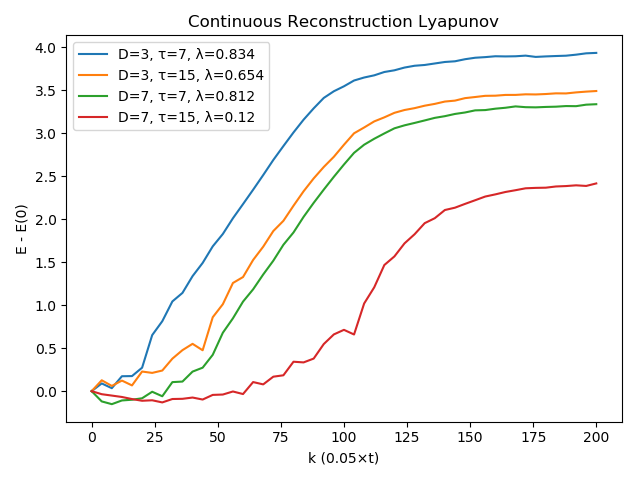
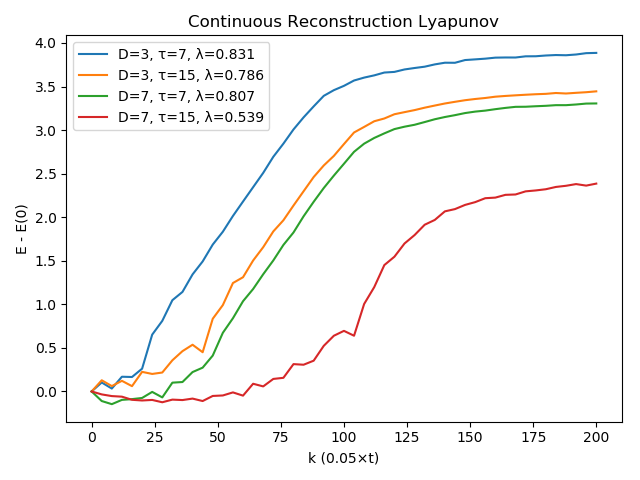
build based on 648447f

diff --git a/dev/embedding/reconstruction/index.html b/dev/embedding/reconstruction/index.html
@@ -540,36 +540,37 @@
                   <h1>Delay Coordinates</h1>
                 
                 <p>A timeseries recorded in some manner from a dynamical system can be used to gain information about the dynamics of the entire phase-space of the system. This can be done by reconstructing a new phase-space from the timeseries. One method that can do this is what is known as <a href="https://en.wikipedia.org/wiki/Takens%27_theorem">delay coordinates embedding</a> or delay coordinates <em>reconstruction</em>.</p>
-<p>This is done through the <code>reconstruct</code> interface:</p>
+<p>This is done through <code>reconstruct</code> or <code>embed</code>:</p>
 <p><a id='DelayEmbeddings.reconstruct' href='#DelayEmbeddings.reconstruct'>#</a>
 <strong><code>DelayEmbeddings.reconstruct</code></strong> &mdash; <em>Function</em>.</p>
-<div class="codehilite"><pre><span></span>reconstruct(s, D, τ)
+<div class="codehilite"><pre><span></span>reconstruct(s, γ, τ)
 </pre></div>
 
 
-<p>Reconstruct <code>s</code> using the delay coordinates embedding with <code>D</code> temporal neighbors and delay <code>τ</code> and return the result as a <a href="../dataset/#DelayEmbeddings.Dataset"><code>Dataset</code></a>.</p>
+<p>Reconstruct <code>s</code> using the delay coordinates embedding with <code>γ</code> temporal neighbors and delay <code>τ</code> and return the result as a <a href="../dataset/#DelayEmbeddings.Dataset"><code>Dataset</code></a>.</p>
+<p>See <a href="./#DelayEmbeddings.embed"><code>embed</code></a> for the version that accepts the embedding dimension <code>D = γ+1</code> directly.</p>
 <p><strong>Description</strong></p>
 <p><strong>Single Timeseries</strong></p>
 <p>If <code>τ</code> is an integer, then the <span><span class="MathJax_Preview">n</span><script type="math/tex">n</script></span>-th entry of the embedded space is</p>
 <div>
 <div class="MathJax_Preview">
-(s(n), s(n+\tau), s(n+2\tau), \dots, s(n+D\tau))
+(s(n), s(n+\tau), s(n+2\tau), \dots, s(n+γ\tau))
 </div>
 <script type="math/tex; mode=display">
-(s(n), s(n+\tau), s(n+2\tau), \dots, s(n+D\tau))
+(s(n), s(n+\tau), s(n+2\tau), \dots, s(n+γ\tau))
 </script>
 </div>
-<p>If instead <code>τ</code> is a vector of integers, so that <code>length(τ) == D</code>, then the <span><span class="MathJax_Preview">n</span><script type="math/tex">n</script></span>-th entry is</p>
+<p>If instead <code>τ</code> is a vector of integers, so that <code>length(τ) == γ</code>, then the <span><span class="MathJax_Preview">n</span><script type="math/tex">n</script></span>-th entry is</p>
 <div>
 <div class="MathJax_Preview">
-(s(n), s(n+\tau[1]), s(n+\tau[2]), \dots, s(n+\tau[D]))
+(s(n), s(n+\tau[1]), s(n+\tau[2]), \dots, s(n+\tau[γ]))
 </div>
 <script type="math/tex; mode=display">
-(s(n), s(n+\tau[1]), s(n+\tau[2]), \dots, s(n+\tau[D]))
+(s(n), s(n+\tau[1]), s(n+\tau[2]), \dots, s(n+\tau[γ]))
 </script>
 </div>
-<p>The reconstructed dataset can have same invariant quantities (like e.g. lyapunov exponents) with the original system that the timeseries were recorded from, for proper <code>D</code> and <code>τ</code> [1, 2]. The case of different delay times allows reconstructing systems with many time scales, see [3].</p>
-<p><em>Notice</em> - The dimension of the returned dataset is <code>D+1</code>!</p>
+<p>The reconstructed dataset can have same invariant quantities (like e.g. lyapunov exponents) with the original system that the timeseries were recorded from, for proper <code>γ</code> and <code>τ</code>. This is known as the Takens embedding theorem [1, 2]. The case of different delay times allows reconstructing systems with many time scales, see [3].</p>
+<p><em>Notice</em> - The dimension of the returned dataset (i.e. embedding dimension) is <code>γ+1</code>!</p>
 <p><strong>Multiple Timeseries</strong></p>
 <p>To make a reconstruction out of a multiple timeseries (i.e. trajectory) the number of timeseries must be known by type, so <code>s</code> can be either:</p>
 <ul>
@@ -579,26 +580,34 @@
 <p>If the trajectory is for example <span><span class="MathJax_Preview">(x, y)</span><script type="math/tex">(x, y)</script></span> and <code>τ</code> is integer, then the <span><span class="MathJax_Preview">n</span><script type="math/tex">n</script></span>-th entry of the embedded space is</p>
 <div>
 <div class="MathJax_Preview">
-(x(n), y(n), x(n+\tau), y(n+\tau), \dots, x(n+D\tau), y(n+D\tau))
+(x(n), y(n), x(n+\tau), y(n+\tau), \dots, x(n+γ\tau), y(n+γ\tau))
 </div>
 <script type="math/tex; mode=display">
-(x(n), y(n), x(n+\tau), y(n+\tau), \dots, x(n+D\tau), y(n+D\tau))
+(x(n), y(n), x(n+\tau), y(n+\tau), \dots, x(n+γ\tau), y(n+γ\tau))
 </script>
 </div>
-<p>If <code>τ</code> is an <code>AbstractMatrix{Int}</code>, so that <code>size(τ) == (D, B)</code>, then we have</p>
+<p>If <code>τ</code> is an <code>AbstractMatrix{Int}</code>, so that <code>size(τ) == (γ, B)</code>, then we have</p>
 <div>
 <div class="MathJax_Preview">
-(x(n), y(n), x(n+\tau[1, 1]), y(n+\tau[1, 2]), \dots, x(n+\tau[D, 1]), y(n+\tau[D, 2]))
+(x(n), y(n), x(n+\tau[1, 1]), y(n+\tau[1, 2]), \dots, x(n+\tau[γ, 1]), y(n+\tau[γ, 2]))
 </div>
 <script type="math/tex; mode=display">
-(x(n), y(n), x(n+\tau[1, 1]), y(n+\tau[1, 2]), \dots, x(n+\tau[D, 1]), y(n+\tau[D, 2]))
+(x(n), y(n), x(n+\tau[1, 1]), y(n+\tau[1, 2]), \dots, x(n+\tau[γ, 1]), y(n+\tau[γ, 2]))
 </script>
 </div>
-<p><em>Notice</em> - The dimension of the returned dataset is <code>(D+1)*B</code>!</p>
+<p><em>Notice</em> - The dimension of the returned dataset is <code>(γ+1)*B</code>!</p>
 <p><strong>References</strong></p>
 <p>[1] : F. Takens, <em>Detecting Strange Attractors in Turbulence — Dynamical Systems and Turbulence</em>, Lecture Notes in Mathematics <strong>366</strong>, Springer (1981)</p>
 <p>[2] : T. Sauer <em>et al.</em>, J. Stat. Phys. <strong>65</strong>, pp 579 (1991)</p>
 <p>[3] : K. Judd &amp; A. Mees, <a href="https://www.sciencedirect.com/science/article/pii/S0167278997001188">Physica D <strong>120</strong>, pp 273 (1998)</a></p>
+<p><a id='DelayEmbeddings.embed' href='#DelayEmbeddings.embed'>#</a>
+<strong><code>DelayEmbeddings.embed</code></strong> &mdash; <em>Function</em>.</p>
+<div class="codehilite"><pre><span></span>embed(s, D, τ)
+</pre></div>
+
+
+<p>Perform a delay coordinates embedding on signal <code>s</code> with embedding dimension <code>D</code> and delay time <code>τ</code>. The result is returned as a <a href="../dataset/#DelayEmbeddings.Dataset"><code>Dataset</code></a>, which is a vector of static vectors.</p>
+<p>See <a href="./#DelayEmbeddings.reconstruct"><code>reconstruct</code></a> for an advanced version that supports multiple delay times and can reconstruct multiple timeseries efficiently.</p>
 <hr />
 <p>Here are some examples of <code>reconstruct</code>ing a 3D continuous chaotic system:</p>
 <div class="codehilite"><pre><span></span><span class="k">using</span> <span class="n">DynamicalSystems</span><span class="p">,</span> <span class="n">PyPlot</span>
@@ -641,26 +650,26 @@
 
 
 <div class="codehilite"><pre><span></span>9-dimensional Dataset{Float64} with 996 points
- 0.745667  0.0435719  0.890338    0.157497  …  0.711019  0.214052   0.314479
- 0.594759  0.945384   0.866707    0.511541     0.83282   0.380153   0.754458
- 0.157497  0.0189407  0.793988    0.711019     0.972236  0.22743    0.163211
- 0.511541  0.940033   0.00872263  0.83282      0.786371  0.32852    0.058607
- 0.711019  0.214052   0.314479    0.972236     0.767224  0.722706   0.149247
- 0.83282   0.380153   0.754458    0.786371  …  0.739681  0.0685687  0.502927
- 0.972236  0.22743    0.163211    0.767224     0.876281  0.079287   0.735791
- 0.786371  0.32852    0.058607    0.739681     0.606395  0.717941   0.690385
- 0.767224  0.722706   0.149247    0.876281     0.607293  0.854671   0.298421
- 0.739681  0.0685687  0.502927    0.606395     0.895487  0.0281828  0.687055
- ⋮                                          ⋱
- 0.218698  0.987811   0.42298     0.660524     0.632614  0.230983   0.651362
- 0.930821  0.756176   0.0639801   0.844555     0.574546  0.10618    0.878057
- 0.660524  0.490072   0.523987    0.632614     0.824329  0.992665   0.814298
- 0.844555  0.423646   0.34591     0.574546     0.244064  0.232577   0.745421
- 0.632614  0.230983   0.651362    0.824329  …  0.836616  0.716936   0.0923172
- 0.574546  0.10618    0.878057    0.244064     0.254464  0.174518   0.358852
- 0.824329  0.992665   0.814298    0.836616     0.485585  0.45082    0.61328
- 0.244064  0.232577   0.745421    0.254464     0.368824  0.994254   0.234301
- 0.836616  0.716936   0.0923172   0.485585     0.779545  0.876001   0.420806
+ 0.453591    0.269982  0.671819  …  0.96895     0.303171  0.897061
+ 0.687247    0.386008  0.24742      0.330257    0.487621  0.643531
+ 0.804218    0.143555  0.24769      0.00690501  0.19615   0.58454
+ 0.0824645   0.587728  0.482743     0.878142    0.958098  0.737605
+ 0.96895     0.303171  0.897061     0.832304    0.493443  0.723887
+ 0.330257    0.487621  0.643531  …  0.861223    0.686945  0.982702
+ 0.00690501  0.19615   0.58454      0.847       0.834403  0.457541
+ 0.878142    0.958098  0.737605     0.71074     0.271625  0.457599
+ 0.832304    0.493443  0.723887     0.939664    0.421249  0.227843
+ 0.861223    0.686945  0.982702     0.0592723   0.567878  0.823369
+ ⋮                               ⋱
+ 0.0581625   0.918     0.980216     0.420095    0.70439   0.278469
+ 0.123925    0.602361  0.278765     0.212964    0.303533  0.836159
+ 0.165968    0.853705  0.379734     0.014124    0.575129  0.808987
+ 0.0968769   0.229955  0.681255     0.409945    0.250198  0.912694
+ 0.420095    0.70439   0.278469  …  0.815924    0.27896   0.284367
+ 0.212964    0.303533  0.836159     0.998323    0.398785  0.835313
+ 0.014124    0.575129  0.808987     0.307187    0.280697  0.196756
+ 0.409945    0.250198  0.912694     0.899011    0.609194  0.638631
+ 0.815924    0.27896   0.284367     0.218048    0.909731  0.746986
 </pre></div>
 
 

diff --git a/dev/embedding/estimate/index.html b/dev/embedding/estimate/index.html
@@ -398,8 +398,8 @@
 </li>
       
         <li class="md-nav__item">
-  <a href="#number-of-temporal-neighbors" title="Number of Temporal neighbors" class="md-nav__link">
-    Number of Temporal neighbors
+  <a href="#embedding-dimension" title="Embedding Dimension" class="md-nav__link">
+    Embedding Dimension
   </a>
   
 </li>
@@ -599,8 +599,8 @@
 </li>
       
         <li class="md-nav__item">
-  <a href="#number-of-temporal-neighbors" title="Number of Temporal neighbors" class="md-nav__link">
-    Number of Temporal neighbors
+  <a href="#embedding-dimension" title="Embedding Dimension" class="md-nav__link">
+    Embedding Dimension
   </a>
   
 </li>
@@ -642,38 +642,37 @@
 </pre></div>
 
 
-<p>Estimate an optimal delay to be used in <a href="../reconstruction/#DelayEmbeddings.reconstruct"><code>reconstruct</code></a>. Return the exponential decay time <code>τ</code> rounded to an integer.</p>
+<p>Estimate an optimal delay to be used in <a href="../reconstruction/#DelayEmbeddings.reconstruct"><code>reconstruct</code></a> or <a href="../reconstruction/#DelayEmbeddings.embed"><code>embed</code></a>. Return the exponential decay time <code>τ</code> rounded to an integer.</p>
 <p>The <code>method</code> can be one of the following:</p>
 <ul>
 <li><code>"first_zero"</code> : find first delay at which the auto-correlation function becomes 0.</li>
 <li><code>"first_min"</code> : return delay of first minimum of the auto-correlation function.</li>
 </ul>
-<p><a id='Number-of-Temporal-neighbors-1'></a></p>
-<h2 id="number-of-temporal-neighbors">Number of Temporal neighbors</h2>
-<p>This also corresponds to the "embedding dimension" but only for univariate timeseries.</p>
+<p><a id='Embedding-Dimension-1'></a></p>
+<h2 id="embedding-dimension">Embedding Dimension</h2>
 <p><a id='DelayEmbeddings.estimate_dimension' href='#DelayEmbeddings.estimate_dimension'>#</a>
 <strong><code>DelayEmbeddings.estimate_dimension</code></strong> &mdash; <em>Function</em>.</p>
-<div class="codehilite"><pre><span></span>estimate_dimension(s::AbstractVector, τ:Int, Ds = 1:5) -&gt; E₁s
+<div class="codehilite"><pre><span></span>estimate_dimension(s::AbstractVector, τ:Int, γs = 1:5) -&gt; E₁s
 </pre></div>
 
 
-<p>Compute a quantity that can estimate an optimal amount of temporal neighbors <code>D</code> to be used in <a href="../reconstruction/#DelayEmbeddings.reconstruct"><code>reconstruct</code></a>.</p>
+<p>Compute a quantity that can estimate an optimal amount of temporal neighbors <code>γ</code> to be used in <a href="../reconstruction/#DelayEmbeddings.reconstruct"><code>reconstruct</code></a> or <a href="../reconstruction/#DelayEmbeddings.embed"><code>embed</code></a>.</p>
 <p><strong>Description</strong></p>
-<p>Given the scalar timeseries <code>s</code> and the embedding delay <code>τ</code> compute the values of <code>E₁</code> for each <code>D ∈ Ds</code>, according to Cao's Method (eq. 3 of [1]). Please be aware that in <strong>DynamicalSystems.jl</strong> <code>D</code> stands for the amount of temporal neighbors, <em>not</em> the dimension as in [1]. The dimension is <code>D+1</code>.</p>
-<p>Return the vector of all computed <code>E₁</code>s. To estimate a good value for <code>D</code> from this, find <code>D</code> for which the value <code>E₁</code> saturates at some value around 1.</p>
+<p>Given the scalar timeseries <code>s</code> and the embedding delay <code>τ</code> compute the values of <code>E₁</code> for each <code>γ ∈ γs</code>, according to Cao's Method (eq. 3 of [1]). Please be aware that in <strong>DynamicalSystems.jl</strong> <code>γ</code> stands for the amount of temporal neighbors and not the embedding dimension (<code>D = γ + 1</code>, see also <a href="../reconstruction/#DelayEmbeddings.embed"><code>embed</code></a>).</p>
+<p>Return the vector of all computed <code>E₁</code>s. To estimate a good value for <code>γ</code> from this, find <code>γ</code> for which the value <code>E₁</code> saturates at some value around 1.</p>
 <p><em>Note: This method does not work for datasets with perfectly periodic signals.</em></p>
 <p><strong>References</strong></p>
 <p>[1] : Liangyue Cao, <a href="https://www.sciencedirect.com/science/article/pii/S0167278997001188?via%3Dihub">Physica D, pp. 43-50 (1997)</a></p>
 <p><a id='DelayEmbeddings.stochastic_indicator' href='#DelayEmbeddings.stochastic_indicator'>#</a>
 <strong><code>DelayEmbeddings.stochastic_indicator</code></strong> &mdash; <em>Function</em>.</p>
-<div class="codehilite"><pre><span></span>stochastic_indicator(s::AbstractVector, τ:Int, Ds = 1:4) -&gt; E₂s
+<div class="codehilite"><pre><span></span>stochastic_indicator(s::AbstractVector, τ:Int, γs = 1:4) -&gt; E₂s
 </pre></div>
 
 
-<p>Compute an estimator for apparent randomness in a reconstruction with <code>Ds</code> temporal neighbors.</p>
+<p>Compute an estimator for apparent randomness in a reconstruction with <code>γs</code> temporal neighbors.</p>
 <p><strong>Description</strong></p>
-<p>Given the scalar timeseries <code>s</code> and the embedding delay <code>τ</code> compute the values of <code>E₂</code> for each <code>D ∈ Ds</code>, according to Cao's Method (eq. 5 of [1]).</p>
-<p>Use this function to confirm that the input signal is not random and validate the results of <a href="./#DelayEmbeddings.estimate_dimension"><code>estimate_dimension</code></a>. In the case of random signals, it should be <code>E₂ ≈ 1 ∀ D</code>.</p>
+<p>Given the scalar timeseries <code>s</code> and the embedding delay <code>τ</code> compute the values of <code>E₂</code> for each <code>γ ∈ γs</code>, according to Cao's Method (eq. 5 of [1]).</p>
+<p>Use this function to confirm that the input signal is not random and validate the results of <a href="./#DelayEmbeddings.estimate_dimension"><code>estimate_dimension</code></a>. In the case of random signals, it should be <code>E₂ ≈ 1 ∀ γ</code>.</p>
 <p><strong>References</strong></p>
 <p>[1] : Liangyue Cao, <a href="https://www.sciencedirect.com/science/article/pii/S0167278997001188?via%3Dihub">Physica D, pp. 43-50 (1997)</a></p>
 <hr />

diff --git a/dev/advanced/index.html b/dev/advanced/index.html
@@ -868,27 +868,27 @@
 </pre></div>
 
 
-<div class="codehilite"><pre><span></span>14346-element Array{Float64,1}:
-  1.6531553545474398e-9
-  1.7295215075928467e-9
-  1.801905825708958e-9
-  1.8971462263946814e-9
-  2.002324127897119e-9
-  2.1162397136622916e-9
-  2.2383894667142062e-9
-  2.367985049908675e-9
-  2.5003198520883046e-9
-  2.6429457744012223e-9
+<div class="codehilite"><pre><span></span>14031-element Array{Float64,1}:
+  6.856169755264023e-10
+  7.349174050129929e-10
+  7.682889014320411e-10
+  8.066479796295918e-10
+  8.464643769574842e-10
+  8.882700173227682e-10
+  9.32397330024947e-10
+  9.790443528098708e-10
+  1.027655381666798e-9
+  1.08036735968398e-9
   ⋮
- 23.390311627891677
- 23.268828528051863
- 23.110242465124408
- 22.908378440475005
- 22.676378516527777
- 22.404592137240517
- 22.1099160135681
- 21.791420316722036
- 21.456209681358004
+ 35.69050320080327
+ 36.3867653384203
+ 37.00686213442833
+ 37.55476761633957
+ 38.02222096631662
+ 38.40632006284148
+ 38.70979641866547
+ 38.92831131875729
+ 39.0597491338176
 </pre></div>
 
 

diff --git a/dev/chaos/nlts/index.html b/dev/chaos/nlts/index.html
@@ -785,26 +785,26 @@ E(k) \approx \lambda\Delta t k + E(0)
 
 
 <div class="codehilite"><pre><span></span>20001-element Array{Float64,1}:
-   0.0
-   4.2851781460746485
-   8.924780658227977
-  15.012201310538227
-  20.055334268425767
-  18.062349973396024
-   9.898347024647947
-   2.199117951343057
-  -2.6729672045414565
-  -5.338119599140166
-   ⋮
-  -0.8905147174586189
-  -1.373574144205633
-  -2.158130921849464
-  -3.438812939927904
-  -5.506736057626345
-  -8.692055339138237
- -12.948237211268406
- -16.702715747104076
- -16.62936107940933
+  0.0
+  4.2851781460745455
+  8.9247806582301
+ 15.012201310538227
+ 20.055334268425792
+ 18.062349973396003
+  9.898347024647947
+  2.1991179513430605
+ -2.6729672045417354
+ -5.3381195991401595
+  ⋮
+  6.8930784959477
+  8.363855695776378
+ 10.015287975904528
+ 11.394119858487318
+ 11.877939203648781
+ 11.113653906577763
+  9.411003447073245
+  7.493809022238821
+  5.9452292192002645
 </pre></div>
 
 

diff --git a/dev/chaos/lyapunovs/index.html b/dev/chaos/lyapunovs/index.html
@@ -667,9 +667,9 @@
 
 
 <div class="codehilite"><pre><span></span>3-element Array{Float64,1}:
-  0.4324528454007626
-  0.37213520492873475
- -3.2969603446208096
+  0.4322926588955944
+  0.3722991872594163
+ -3.296964140446323
 </pre></div>
 
 
@@ -680,9 +680,9 @@
 
 
 <div class="codehilite"><pre><span></span>3-element Array{Float64,1}:
-   0.9874377089949701
-   0.00044982713229393023
- -14.654554202464917
+   0.9921676685030614
+  -0.00041884694427341695
+ -14.6584154878969
 </pre></div>
 
 
@@ -756,7 +756,7 @@
 </pre></div>
 
 
-<div class="codehilite"><pre><span></span>0.9927005120867275
+<div class="codehilite"><pre><span></span>0.9947201173035588
 </pre></div>
                 
                   

diff --git a/dev/index.html b/dev/index.html
@@ -716,7 +716,7 @@
 <h1 id="introduction">Introduction</h1>
 <p><strong>DynamicalSystems.jl</strong> is a Julia software library for the exploration of chaos and nonlinear dynamics.</p>
 <p>The current documentation was built with the following versions</p>
-<div class="codehilite"><pre><span></span> * DelayEmbeddings ........... 0.1.0
+<div class="codehilite"><pre><span></span> * DelayEmbeddings ........... 0.1.1
  * DynamicalSystemsBase ...... 1.1.0
  * ChaosTools ................ 1.2.1
 </pre></div>

diff --git a/dev/chaos/entropies/index.html b/dev/chaos/entropies/index.html
@@ -931,7 +931,7 @@ R_\alpha(p) = \frac{1}{1-\alpha} \log \left(\sum_i p[i]^\alpha\right)
 </pre></div>
 
 
-<div class="codehilite"><pre><span></span>1.2587062137730363
+<div class="codehilite"><pre><span></span>1.2587092572355392
 </pre></div>
                 
                   
